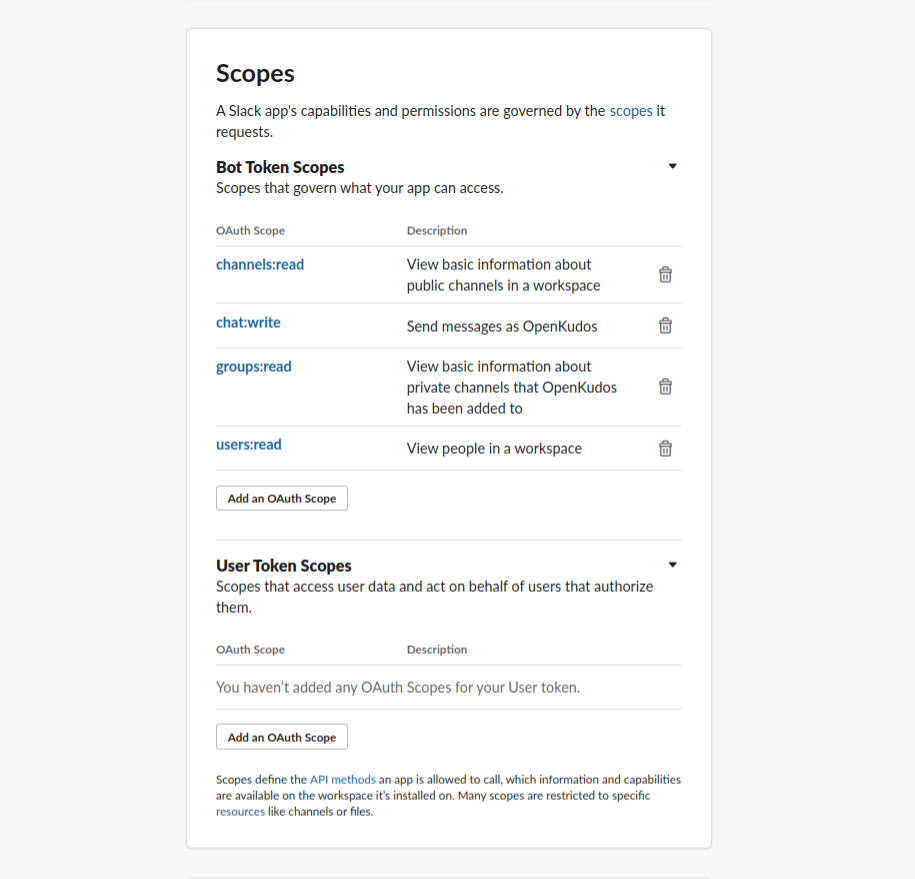
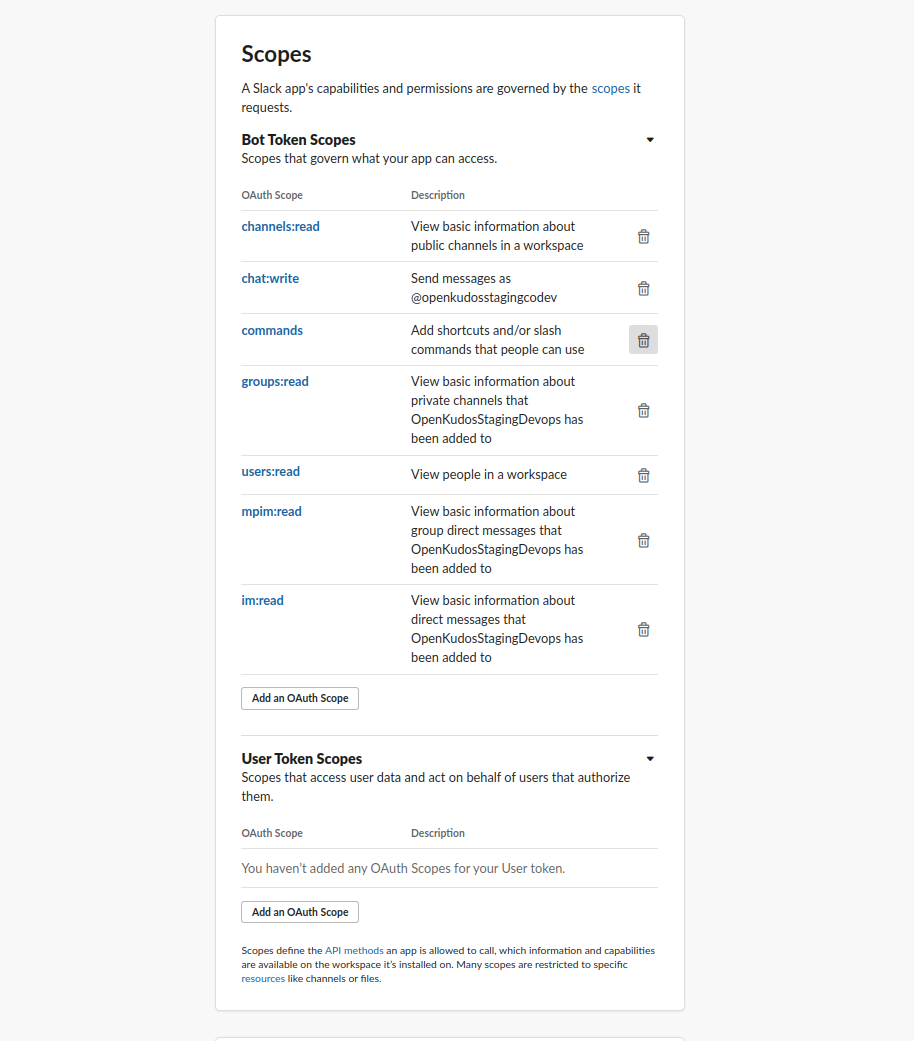
code optimised for fetching all conversations; permission for reading muliperson and one to one private conversation added; INSTALLATION.md updated accordingly

diff --git a/backend/src/common/services/slackClient.ts b/backend/src/common/services/slackClient.ts
@@ -53,35 +53,65 @@ export default class SlackClientService {
     }
   }
 
+  public async getAllConversations(teamId: string) {
+    const workspace = await Workspace.findOne({ teamId })
+    const configPublic: AxiosRequestConfig = {
+      method: 'get',
+      url: 'https://slack.com/api/conversations.list?types=public_channel&pretty=1',
+      headers: {
+        'Authorization': `Bearer ${workspace.botAccessToken}`
+      }
+    }
+    const configPrivate: AxiosRequestConfig = {
+      method: 'get',
+      url: 'https://slack.com/api/conversations.list?types=private_channel&pretty=1',
+      headers: {
+        'Authorization': `Bearer ${workspace.botAccessToken}`
+      }
+    }
+    const configMpim: AxiosRequestConfig = {
+      method: 'get',
+      url: 'https://slack.com/api/conversations.list?types=mpim&pretty=1',
+      headers: {
+        'Authorization': `Bearer ${workspace.botAccessToken}`
+      }
+    }
+    const configIm: AxiosRequestConfig = {
+      method: 'get',
+      url: 'https://slack.com/api/conversations.list?types=im&pretty=1',
+      headers: {
+        'Authorization': `Bearer ${workspace.botAccessToken}`
+      }
+    }
+
+    let channels = [];
+    let { data: resPub } = await axios(configPublic)
+    let { ok: okPub, channels: channelsPub } = resPub
+    if (okPub) channels = channels.concat(channelsPub)
+
+    let { data: resPri } = await axios(configPrivate)
+    let { ok: okPri, channels: channelsPri } = resPri
+    if (okPri) channels = channels.concat(channelsPri)
+
+    let { data: resMpim } = await axios(configMpim)
+    let { ok: okMpim, channels: channelsMpim } = resMpim
+    if (okMpim) channels = channels.concat(channelsMpim)
+
+    let { data: resIm } = await axios(configIm)
+    let { ok: okIm, channels: channelsIm } = resIm
+    if (okIm) channels = channels.concat(channelsIm)
+
+    return channels
+  }
+
   public async getDefaultChannelId(teamId: string): Promise<string> {
     if (SlackClientService.botResponseChannelsIds[teamId]) {
       return SlackClientService.botResponseChannelsIds[teamId]
     } else {
-      const workspace = await Workspace.findOne({ teamId })
-      const config: AxiosRequestConfig = {
-        method: 'get',
-        url: 'https://slack.com/api/conversations.list?pretty=1',
-        headers: {
-          'Authorization': `Bearer ${workspace.botAccessToken}`
-        }
-      }
-
-      return new Promise((resolve, reject) => {
-        axios(config)
-          .then((response) => {
-            const { ok, channels, error } = response.data
-            if (ok) {
-              const { id: generalChannelId } = channels.find(({ is_general }) => is_general)
-              SlackClientService.botResponseChannelsIds[teamId] = generalChannelId
-              resolve(generalChannelId)
-            } else {
-              reject(error)
-            }
-          })
-          .catch((error) => {
-            reject(error)
-          });
-      });
+      const channels = await this.getAllConversations(teamId)
+      const { id: generalChannelId } = channels.find(({ is_general }) => is_general)
+      SlackClientService.botResponseChannelsIds[teamId] = generalChannelId
+      return generalChannelId
     }
   }
 
@@ -158,32 +188,6 @@ export default class SlackClientService {
     } catch (error) {
       throw error
     }
-  }
-
-  public async getAllPublicChannelsNames(teamId: string) {
-    const workspace = await Workspace.findOne({ teamId })
-    const config: AxiosRequestConfig = {
-      method: 'get',
-      url: 'https://slack.com/api/conversations.list?pretty=1',
-      headers: {
-        'Authorization': `Bearer ${workspace.botAccessToken}`
-      }
-    }
-
-    return new Promise((resolve, reject) => {
-      axios(config)
-        .then((response) => {
-          const { ok, channels, error } = response.data
-          if (ok) {
-            resolve(channels.map(({ id, name }) => ({ id, name })))
-          } else {
-            reject(error)
-          }
-        })
-        .catch((error) => {
-          reject(error)
-        });
-    });
   }
 
   public setBotResponseChannel(teamId: string, channelId: string) {

diff --git a/backend/src/controllers/channelsController.ts b/backend/src/controllers/channelsController.ts
@@ -20,8 +20,8 @@ export default class ChannelsController {
   ) {
     const { team_id } = req.user
     const channels = await this.slackClientService
-      .getAllPublicChannelsNames(team_id)
+      .getAllConversations(team_id)
 
-    res.send(channels)
+    res.send(channels.map(({ id, name }) => ({ id, name })))
   }
 }

diff --git a/client-dashboard/src/layout/FooterLayout.tsx b/client-dashboard/src/layout/FooterLayout.tsx
@@ -5,7 +5,7 @@ const { Footer } = Layout;
 
 const FooterLayout: React.FC = () => {
   const year = new Date().getFullYear()
-  const message = `Open Kudos ©${year} Created by Pagepro`
+  const message = `Open Kudos ©${year}`
 
   return (
     <Footer className="footer-container">

diff --git a/INSTALLATION.md b/INSTALLATION.md
@@ -82,9 +82,11 @@
         2. Add following scopes:
             ```
             channels:read
-            chat:write
             groups:read
+            mpim:read
+            im:read
             users:read
+            chat:write
             ```
     4. Go to `App Home`->`Your App’s Presence in Slack`
 
